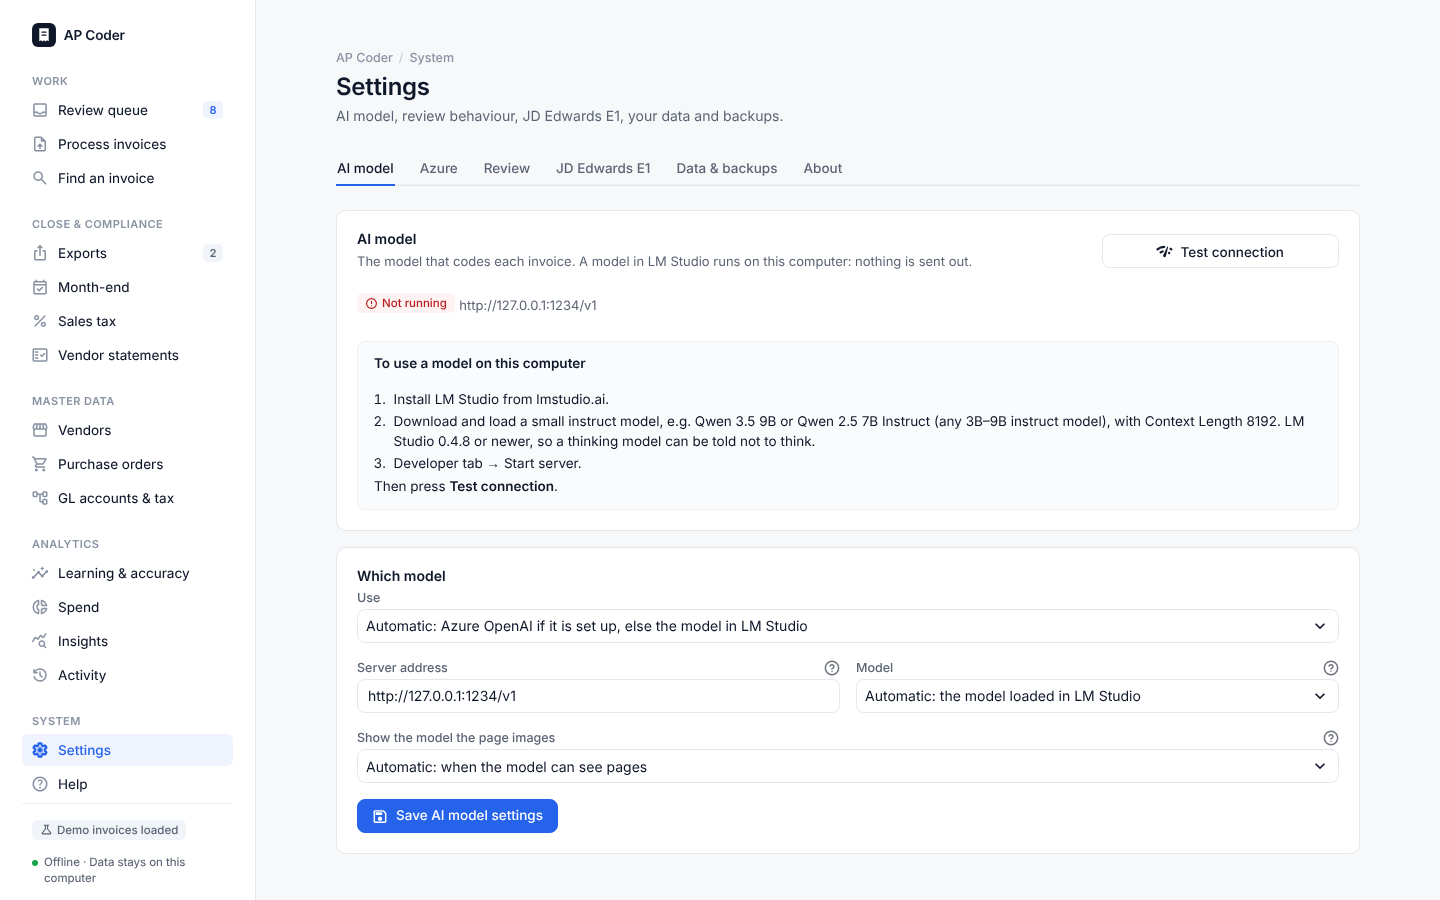
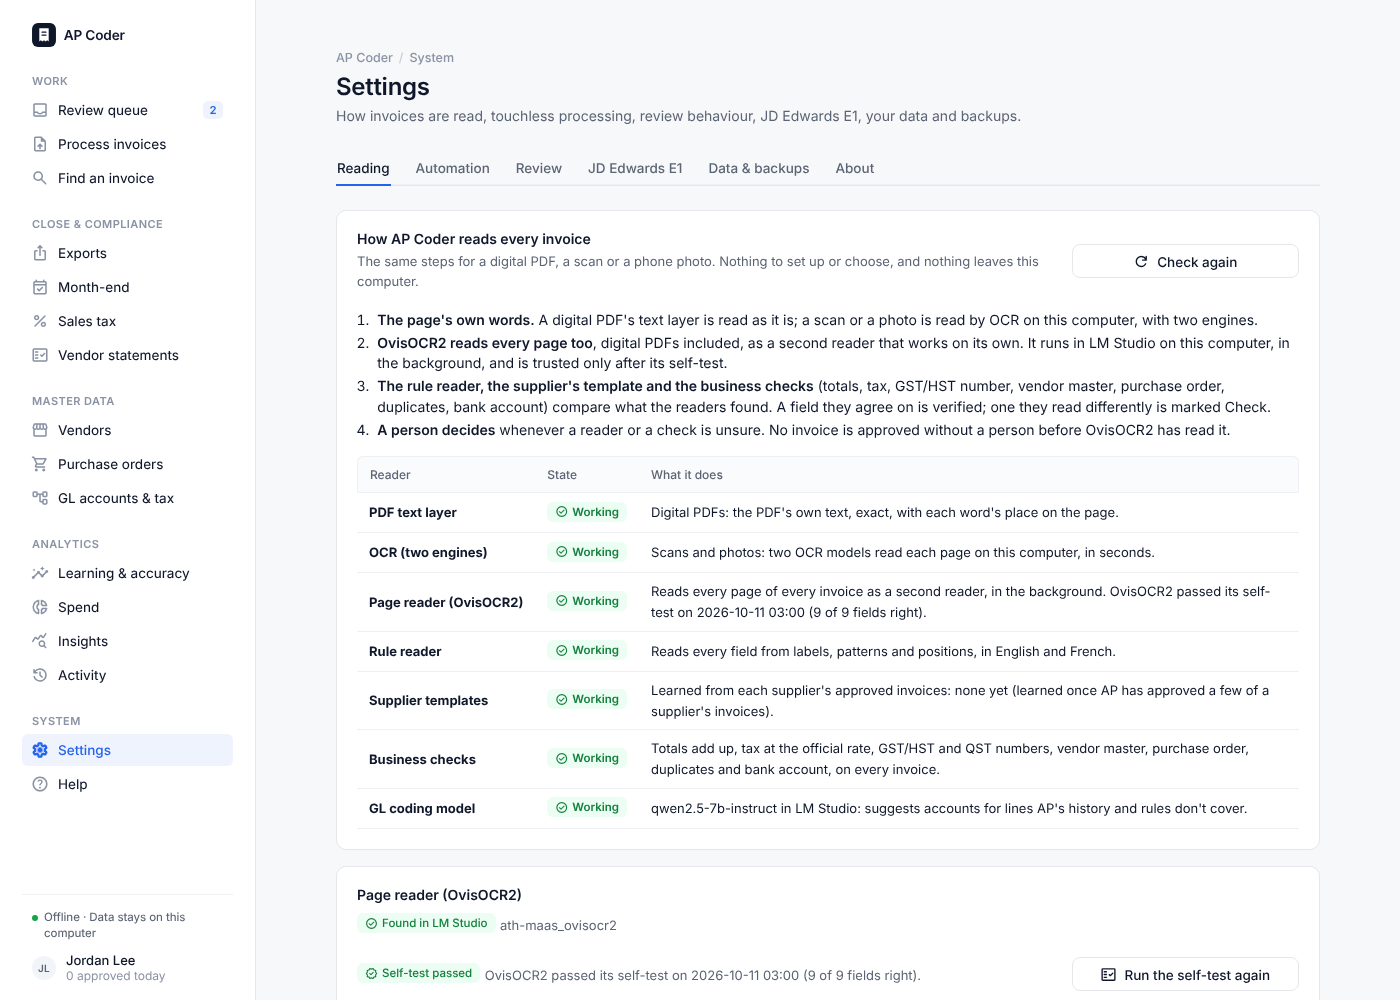
Docs: Settings → Reading screenshot and the uniform pipeline measured end to end with OvisOCR2
Claude-Session: https://claude.ai/code/session_01KmznnM6Uni5SXM6Jaqdi3e

diff --git a/docs/CAPTURE_DESIGN.md b/docs/CAPTURE_DESIGN.md
@@ -388,6 +388,14 @@ Speed: 7.6 to 12.4 minutes a scanned page, 3.5 to 5.7 minutes a photo, on a 4-co
 gave the model one thread; a laptop letting it use its cores is several times faster (CloseDesk: about 3 minutes
 on 4 cores).
 
+**The uniform pipeline, end to end** (a fresh database, real LM Studio with OvisOCR2 Q8_0, nothing set up or pressed):
+`read-pages` found OvisOCR2 and ran its self-test on its own (9 of 9 fields right, 17.7 minutes), then read the queue.
+A digital sample PDF (2 pages, 18 minutes): OvisOCR2 read all 24 of its figures as the PDF's text layer has them,
+`TEXT_LAYER_MATCHES_PAGE` passed, it agreed on all 11 fields it read, and 11 fields are *verified*. A real scan
+(1 page, 8.3 minutes): it agreed with OCR on all 11 fields both read, 10 *verified*; across the scan 27 of 34 figures
+were read the same by both, and a field they read differently is marked *Check*. Both stayed in review: touchless
+processing is off, and neither vendor has a record yet.
+
 ## Learning from approvals: each reader's record, local calibration, training data
 
 Every approval is the ground truth for that invoice. When it is approved, each reader's raw value for each
